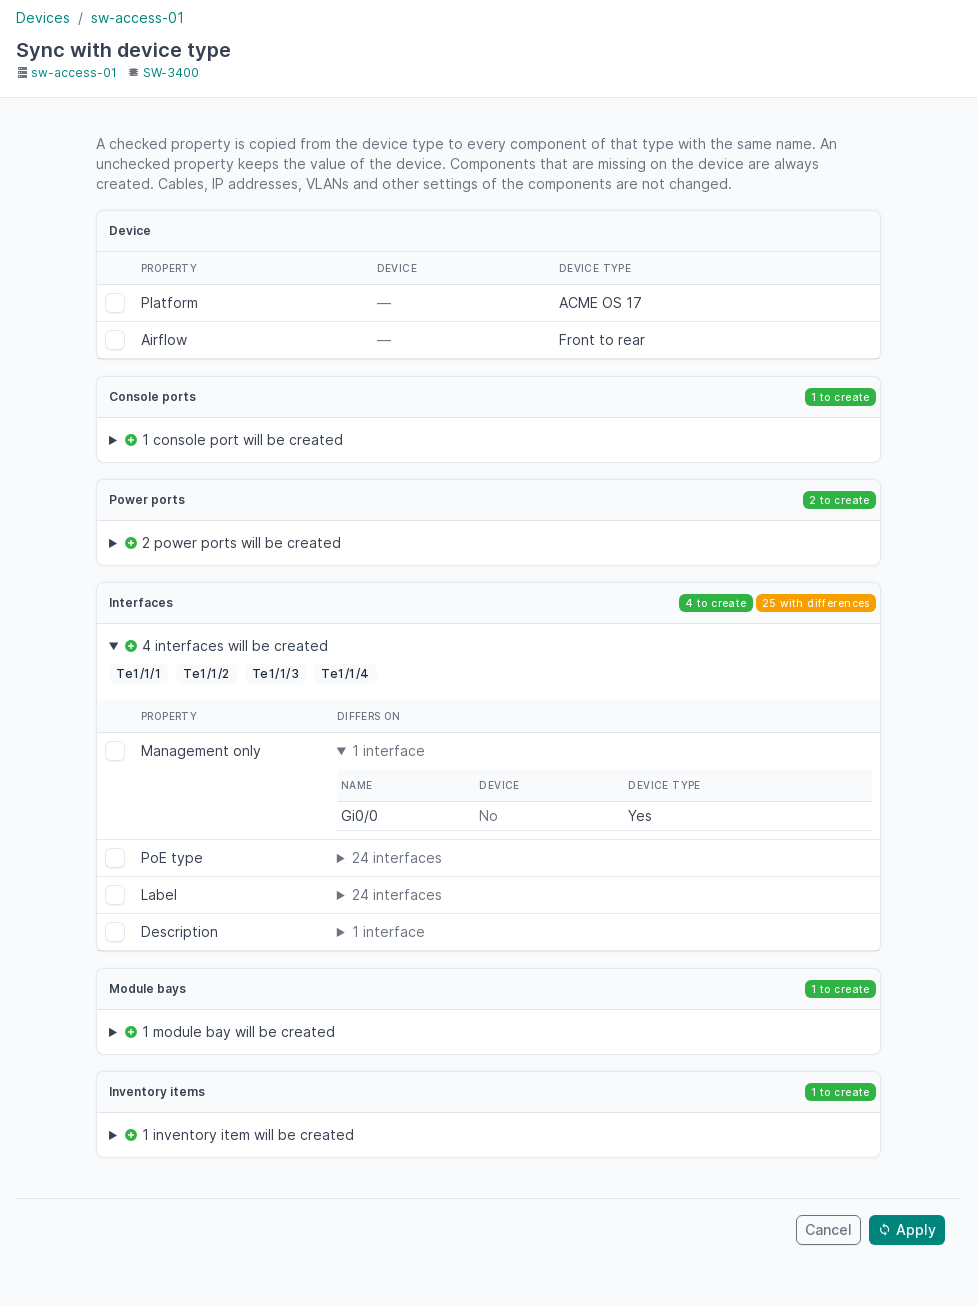
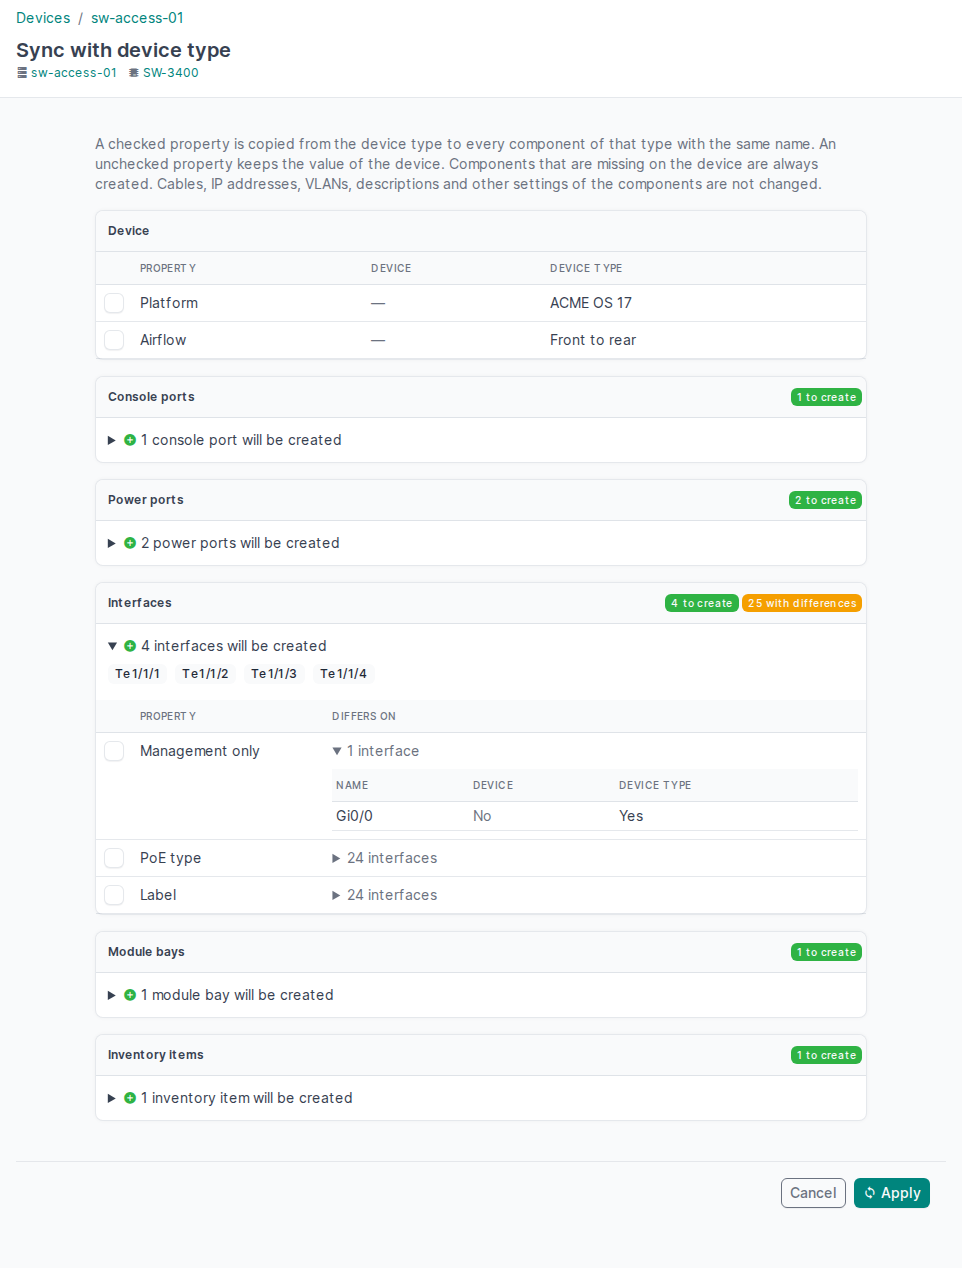
Do not sync the description of components
NetBox does not copy the description from a component template when it
creates a device, so the plugin no longer compares or copies it for
existing components either. Release 1.0.1.

diff --git a/netbox_device_type_sync/templates/netbox_device_type_sync/device_sync.html b/netbox_device_type_sync/templates/netbox_device_type_sync/device_sync.html
@@ -80,8 +80,8 @@ Context:
             {% blocktrans trimmed %}
               A checked property is copied from the device type to every component of that type with the same
               name. An unchecked property keeps the value of the device. Components that are missing on the
-              device are always created. Cables, IP addresses, VLANs and other settings of the components are
-              not changed.
+              device are always created. Cables, IP addresses, VLANs, descriptions and other settings of the
+              components are not changed.
             {% endblocktrans %}
           </p>
 

diff --git a/netbox_device_type_sync/components.py b/netbox_device_type_sync/components.py
@@ -6,6 +6,10 @@ compares exactly those properties; everything else on a device component
 (cables, IP addresses, VLANs, MAC addresses, custom fields, tags, ...) is never
 read or written.
 
+The one exception is the description. A template has one, but NetBox does not
+copy it to a component it creates for a new device (instantiate()), so the
+plugin does not compare or copy it either.
+
 Each property knows how to read its value from a template and from a device
 component, and how to write the template value to a component. Values are
 compared as plain Python values; every read also returns a human-readable
@@ -487,14 +491,13 @@ class ComponentKind:
 
 
 LABEL = FieldProperty('label')
-DESCRIPTION = FieldProperty('description')
 TYPE = FieldProperty('type')
 
 # In the order NetBox instantiates components for a new device
 # (dcim.models.Device.save()); components that others refer to come first.
 COMPONENT_KINDS = (
-    ComponentKind(ConsolePortTemplate, (TYPE, LABEL, DESCRIPTION)),
-    ComponentKind(ConsoleServerPortTemplate, (TYPE, LABEL, DESCRIPTION)),
+    ComponentKind(ConsolePortTemplate, (TYPE, LABEL)),
+    ComponentKind(ConsoleServerPortTemplate, (TYPE, LABEL)),
     ComponentKind(
         PowerPortTemplate,
         (
@@ -502,7 +505,6 @@ COMPONENT_KINDS = (
             FieldProperty('maximum_draw'),
             FieldProperty('allocated_draw'),
             LABEL,
-            DESCRIPTION,
         ),
     ),
     ComponentKind(
@@ -513,7 +515,6 @@ COMPONENT_KINDS = (
             RelationProperty('power_port'),
             FieldProperty('feed_leg'),
             LABEL,
-            DESCRIPTION,
         ),
     ),
     ComponentKind(
@@ -523,7 +524,6 @@ COMPONENT_KINDS = (
             FieldProperty('diameter', 'diameter_unit'),
             FieldProperty('max_flow', 'max_flow_unit'),
             LABEL,
-            DESCRIPTION,
         ),
     ),
     ComponentKind(
@@ -533,7 +533,6 @@ COMPONENT_KINDS = (
             FieldProperty('diameter', 'diameter_unit'),
             RelationProperty('cooling_intake'),
             LABEL,
-            DESCRIPTION,
         ),
     ),
     ComponentKind(
@@ -550,12 +549,11 @@ COMPONENT_KINDS = (
             RelationProperty('parent'),
             RelationProperty('bridge'),
             LABEL,
-            DESCRIPTION,
         ),
     ),
     ComponentKind(
         RearPortTemplate,
-        (TYPE, FieldProperty('color'), FieldProperty('positions'), LABEL, DESCRIPTION),
+        (TYPE, FieldProperty('color'), FieldProperty('positions'), LABEL),
     ),
     ComponentKind(
         FrontPortTemplate,
@@ -565,7 +563,6 @@ COMPONENT_KINDS = (
             FieldProperty('positions'),
             PortMappingsProperty(),
             LABEL,
-            DESCRIPTION,
         ),
     ),
     ComponentKind(
@@ -575,10 +572,9 @@ COMPONENT_KINDS = (
             FieldProperty('enabled'),
             ModuleBayTypesProperty(),
             LABEL,
-            DESCRIPTION,
         ),
     ),
-    ComponentKind(DeviceBayTemplate, (FieldProperty('enabled'), LABEL, DESCRIPTION)),
+    ComponentKind(DeviceBayTemplate, (FieldProperty('enabled'), LABEL)),
 )
 
 if InventoryItemTemplate is not None:
@@ -592,7 +588,6 @@ if InventoryItemTemplate is not None:
                 FieldProperty('manufacturer'),
                 FieldProperty('part_id'),
                 LABEL,
-                DESCRIPTION,
             ),
         ),
     )

diff --git a/netbox_device_type_sync/tests/test_apply.py b/netbox_device_type_sync/tests/test_apply.py
@@ -74,7 +74,7 @@ class ApplyTestCase(SyncTestMixin, TestCase):
 
         eth0 = device.interfaces.get(name='eth0')
         self.assertEqual(eth0.type, InterfaceTypeChoices.TYPE_10GE_SFP_PLUS)
-        self.assertEqual(eth0.description, '')  # not selected
+        self.assertEqual(eth0.description, '')  # never synced
         self.assertIsNotNone(eth0.cable)
         self.assertEqual(eth0.untagged_vlan, vlan)
         self.assertEqual(eth0.mode, InterfaceModeChoices.MODE_ACCESS)
@@ -96,14 +96,13 @@ class ApplyTestCase(SyncTestMixin, TestCase):
         self.assertEqual(device.interfaces.get(name='eth0').type, '1000base-t')
         self.assertTrue(device.interfaces.filter(name='eth2').exists())
 
-    def test_selected_description(self):
+    def test_description_is_never_synced(self):
         device = self.change_device_type(self.create_device(self.type_1), self.type_2)
 
-        sync(device, selected=['interface.description'])
+        result = sync(device, selected=['interface.description'])
 
-        eth0 = device.interfaces.get(name='eth0')
-        self.assertEqual(eth0.description, 'Uplink')
-        self.assertEqual(eth0.type, '1000base-t')
+        self.assertEqual(device.interfaces.get(name='eth0').description, '')
+        self.assertEqual(result.updated_count, 0)
 
     def test_validation_error_rolls_back_everything(self):
         device = self.create_device(self.type_1)
@@ -116,14 +115,14 @@ class ApplyTestCase(SyncTestMixin, TestCase):
         device = self.change_device_type(device, self.type_2)
 
         with self.assertRaises(SyncError) as cm:
-            sync(device, selected=['interface.type', 'interface.description'])
+            sync(device, selected=['interface.type'])
 
         self.assertEqual(len(cm.exception.errors), 1)
         self.assertIn('Interface eth0', cm.exception.errors[0])
         self.assertIn('cable', cm.exception.errors[0])
         # Nothing was changed: eth2 was not created, eth0 kept its values
         self.assertFalse(device.interfaces.filter(name='eth2').exists())
-        self.assertEqual(device.interfaces.get(name='eth0').description, '')
+        self.assertEqual(device.interfaces.get(name='eth0').type, '1000base-t')
 
     def test_device_fields(self):
         platform = Platform.objects.create(name='Platform 1', slug='platform-1')
@@ -400,18 +399,18 @@ class ApplyPermissionsTestCase(SyncTestMixin, NetBoxTestCase):
             device_type=device_type, name='eth0', type='1000base-t'
         )
         device = self.create_device(device_type)
-        device_type.interfacetemplates.update(description='Uplink')
+        device_type.interfacetemplates.update(mgmt_only=True)
         InterfaceTemplate.objects.create(
             device_type=device_type, name='eth1', type='1000base-t'
         )
         self.add_permissions('dcim.change_interface')
 
         with self.assertRaises(SyncError) as cm:
-            sync(device, selected=['interface.description'], user=self.user)
+            sync(device, selected=['interface.mgmt_only'], user=self.user)
 
         self.assertIn('Interface eth1', cm.exception.errors[0])
         self.assertIn('permission', cm.exception.errors[0])
-        self.assertEqual(device.interfaces.get(name='eth0').description, '')
+        self.assertFalse(device.interfaces.get(name='eth0').mgmt_only)
 
     def test_with_permissions(self):
         device_type = self.create_device_type('Type 1')

diff --git a/netbox_device_type_sync/tests/test_coverage.py b/netbox_device_type_sync/tests/test_coverage.py
@@ -34,6 +34,10 @@ IGNORED_TEMPLATE_FIELDS = {
     '_abs_max_flow',
 }
 
+# Template fields that NetBox does not copy to a new component
+# (instantiate()); agreed not to sync
+NOT_SYNCED_TEMPLATE_FIELDS = {'description'}
+
 # Every DeviceType field, by what the plugin does with it
 DEVICE_TYPE_FIELDS = {
     # Copied to the device only when it is created: synced by the plugin
@@ -93,7 +97,10 @@ class TemplateCoverageTestCase(SimpleTestCase):
                 for prop in kind.properties:
                     covered.update(prop.template_fields)
                 self.assertEqual(
-                    model_fields(kind.template_model) - IGNORED_TEMPLATE_FIELDS, covered
+                    model_fields(kind.template_model)
+                    - IGNORED_TEMPLATE_FIELDS
+                    - NOT_SYNCED_TEMPLATE_FIELDS,
+                    covered,
                 )
 
     def test_component_models_have_the_template_fields(self):
@@ -139,6 +146,26 @@ class DeviceTypeFieldsTestCase(SimpleTestCase):
         self.assertEqual(
             {f.source for f in DEVICE_FIELDS}, DEVICE_TYPE_FIELDS['synced']
         )
+
+
+class TemplateInstantiationTestCase(SyncTestMixin, TestCase):
+    """
+    The plugin does not sync the description because NetBox does not copy it
+    to a component it instantiates from a template.
+    """
+
+    def test_description_is_not_copied(self):
+        device_type = self.create_device_type('Type 1')
+        device = self.create_device(device_type)
+        for kind in COMPONENT_KINDS:
+            with self.subTest(kind=kind.key):
+                template = kind.template_model(
+                    device_type=device_type,
+                    name='Component 1',
+                    description='Template description',
+                )
+                component = template.instantiate(device=device)
+                self.assertEqual(component.description, '')
 
 
 class DeviceCreationTestCase(SyncTestMixin, TestCase):

diff --git a/netbox_device_type_sync/tests/test_diff.py b/netbox_device_type_sync/tests/test_diff.py
@@ -91,8 +91,9 @@ class DiffTestCase(SyncTestMixin, TestCase):
         )
         self.assertEqual(plan.create_count, 1)
 
-    def test_description_is_compared(self):
-        # NetBox does not copy the description to a new device
+    def test_description_is_not_compared(self):
+        # NetBox does not copy the description to a new device, so the plugin
+        # does not sync it either
         device_type = self.create_device_type('Type 1')
         InterfaceTemplate.objects.create(
             device_type=device_type,
@@ -101,10 +102,13 @@ class DiffTestCase(SyncTestMixin, TestCase):
             description='Uplink',
         )
         device = self.create_device(device_type)
+        self.assertEqual(device.interfaces.get(name='eth0').description, '')
 
-        interfaces = kind_diff(build_plan(device), 'interface')
+        plan = build_plan(device)
+        interfaces = kind_diff(plan, 'interface')
 
-        self.assertEqual(interfaces.update[0].changes['description'].desired, 'Uplink')
+        self.assertEqual(interfaces.update, [])
+        self.assertEqual(plan.selection_keys, [])
 
     def test_virtual_chassis_position_is_resolved(self):
         device_type = self.create_device_type('Type 1')

diff --git a/netbox_device_type_sync/tests/test_load.py b/netbox_device_type_sync/tests/test_load.py
@@ -6,7 +6,7 @@ from netbox_device_type_sync import __version__
 
 class VersionTestCase(SimpleTestCase):
     def test_version(self):
-        assert __version__ == '1.0.0'
+        assert __version__ == '1.0.1'
 
 
 class PluginLoadTestCase(SimpleTestCase):

diff --git a/netbox_device_type_sync/version.py b/netbox_device_type_sync/version.py
@@ -1,1 +1,1 @@
-__version__ = '1.0.0'
+__version__ = '1.0.1'

diff --git a/README.md b/README.md
@@ -68,21 +68,22 @@ the NetBox change log with the message `Synced with device type <name>`.
 
 ## What is synchronized
 
-Only the properties that a component template defines are compared:
+Only the properties that a component template defines are compared, except
+the description (see *Never changed* below):
 
 | Component | Properties |
 | --- | --- |
-| Console port, console server port | type, label, description |
-| Power port | type, maximum draw, allocated draw, label, description |
-| Power outlet | type, color, power port, feed leg, label, description |
-| Cooling intake | type, diameter, maximum flow, label, description |
-| Cooling outflow | type, diameter, cooling intake, label, description |
-| Interface | type, enabled, management only, PoE mode, PoE type, wireless role, channels, channel ID, parent, bridge, label, description |
-| Rear port | type, color, positions, label, description |
-| Front port | type, color, positions, port mappings, label, description |
-| Module bay | position, enabled, module bay types, label, description |
-| Device bay | enabled, label, description |
-| Inventory item | parent, component, role, manufacturer, part ID, label, description |
+| Console port, console server port | type, label |
+| Power port | type, maximum draw, allocated draw, label |
+| Power outlet | type, color, power port, feed leg, label |
+| Cooling intake | type, diameter, maximum flow, label |
+| Cooling outflow | type, diameter, cooling intake, label |
+| Interface | type, enabled, management only, PoE mode, PoE type, wireless role, channels, channel ID, parent, bridge, label |
+| Rear port | type, color, positions, label |
+| Front port | type, color, positions, port mappings, label |
+| Module bay | position, enabled, module bay types, label |
+| Device bay | enabled, label |
+| Inventory item | parent, component, role, manufacturer, part ID, label |
 
 Device fields: **platform** (from the default platform of the device type),
 **airflow** and **cooling method**. NetBox copies them from the device type
@@ -93,6 +94,9 @@ has a value and it differs from the device.
 
 - cables, IP addresses, VLANs, MAC addresses, VRFs, MTU, mode, custom fields
   and tags of components — a device type does not define them;
+- the description of components. A template has one, but NetBox does not
+  copy it to the components of a new device, and the plugin follows the same
+  logic;
 - components installed by modules;
 - components that exist on the device but not in the device type;
 - device fields other than the three above. Height, weight, full depth and
@@ -111,8 +115,7 @@ has a value and it differs from the device.
   creates them for a new device, including custom field defaults, interface
   parents and bridges, power outlet power ports, front/rear port mappings and
   module bay types. Like NetBox, the plugin does not copy the description of
-  the template to a new component; select *Description* on a later sync to
-  copy it.
+  the template, neither to a new component nor to an existing one.
 - **Name conflicts.** If the name of a template is used by a component of an
   installed module, the component is not created and the page shows a
   warning.

diff --git a/CLAUDE.md b/CLAUDE.md
@@ -40,6 +40,11 @@ Agreed with the user; do not widen it without asking.
 - Components that exist on the device but not in the device type are ignored.
 - Missing components are created with the template's `instantiate()`, exactly
   as NetBox does when it creates a device (no description).
+- The description of components is never compared or synced, neither for new
+  nor for existing components: NetBox does not copy it from the template
+  (`instantiate()`), and the plugin follows the same logic. `test_coverage.py`
+  lists it in `NOT_SYNCED_TEMPLATE_FIELDS` and checks that `instantiate()`
+  still does not copy it.
 - Device fields: `platform` (from `default_platform`), `airflow`,
   `cooling_method` — the fields NetBox copies from the device type only when
   a device is created. Offered only when the device type has a value that

diff --git a/CHANGELOG.md b/CHANGELOG.md
@@ -3,6 +3,15 @@
 All notable changes to netbox-device-type-sync. The versions follow
 [semantic versioning](https://semver.org/).
 
+## 1.0.1 (2026-11-12)
+
+### Fixed
+
+- The description of components is no longer compared or synced. NetBox does
+  not copy it from the template when it creates a device, and the plugin now
+  follows the same logic for existing components too: the sync page no longer
+  offers a *Description* checkbox.
+
 ## 1.0.0 (2026-11-12)
 
 First release, for NetBox 4.7.4.
